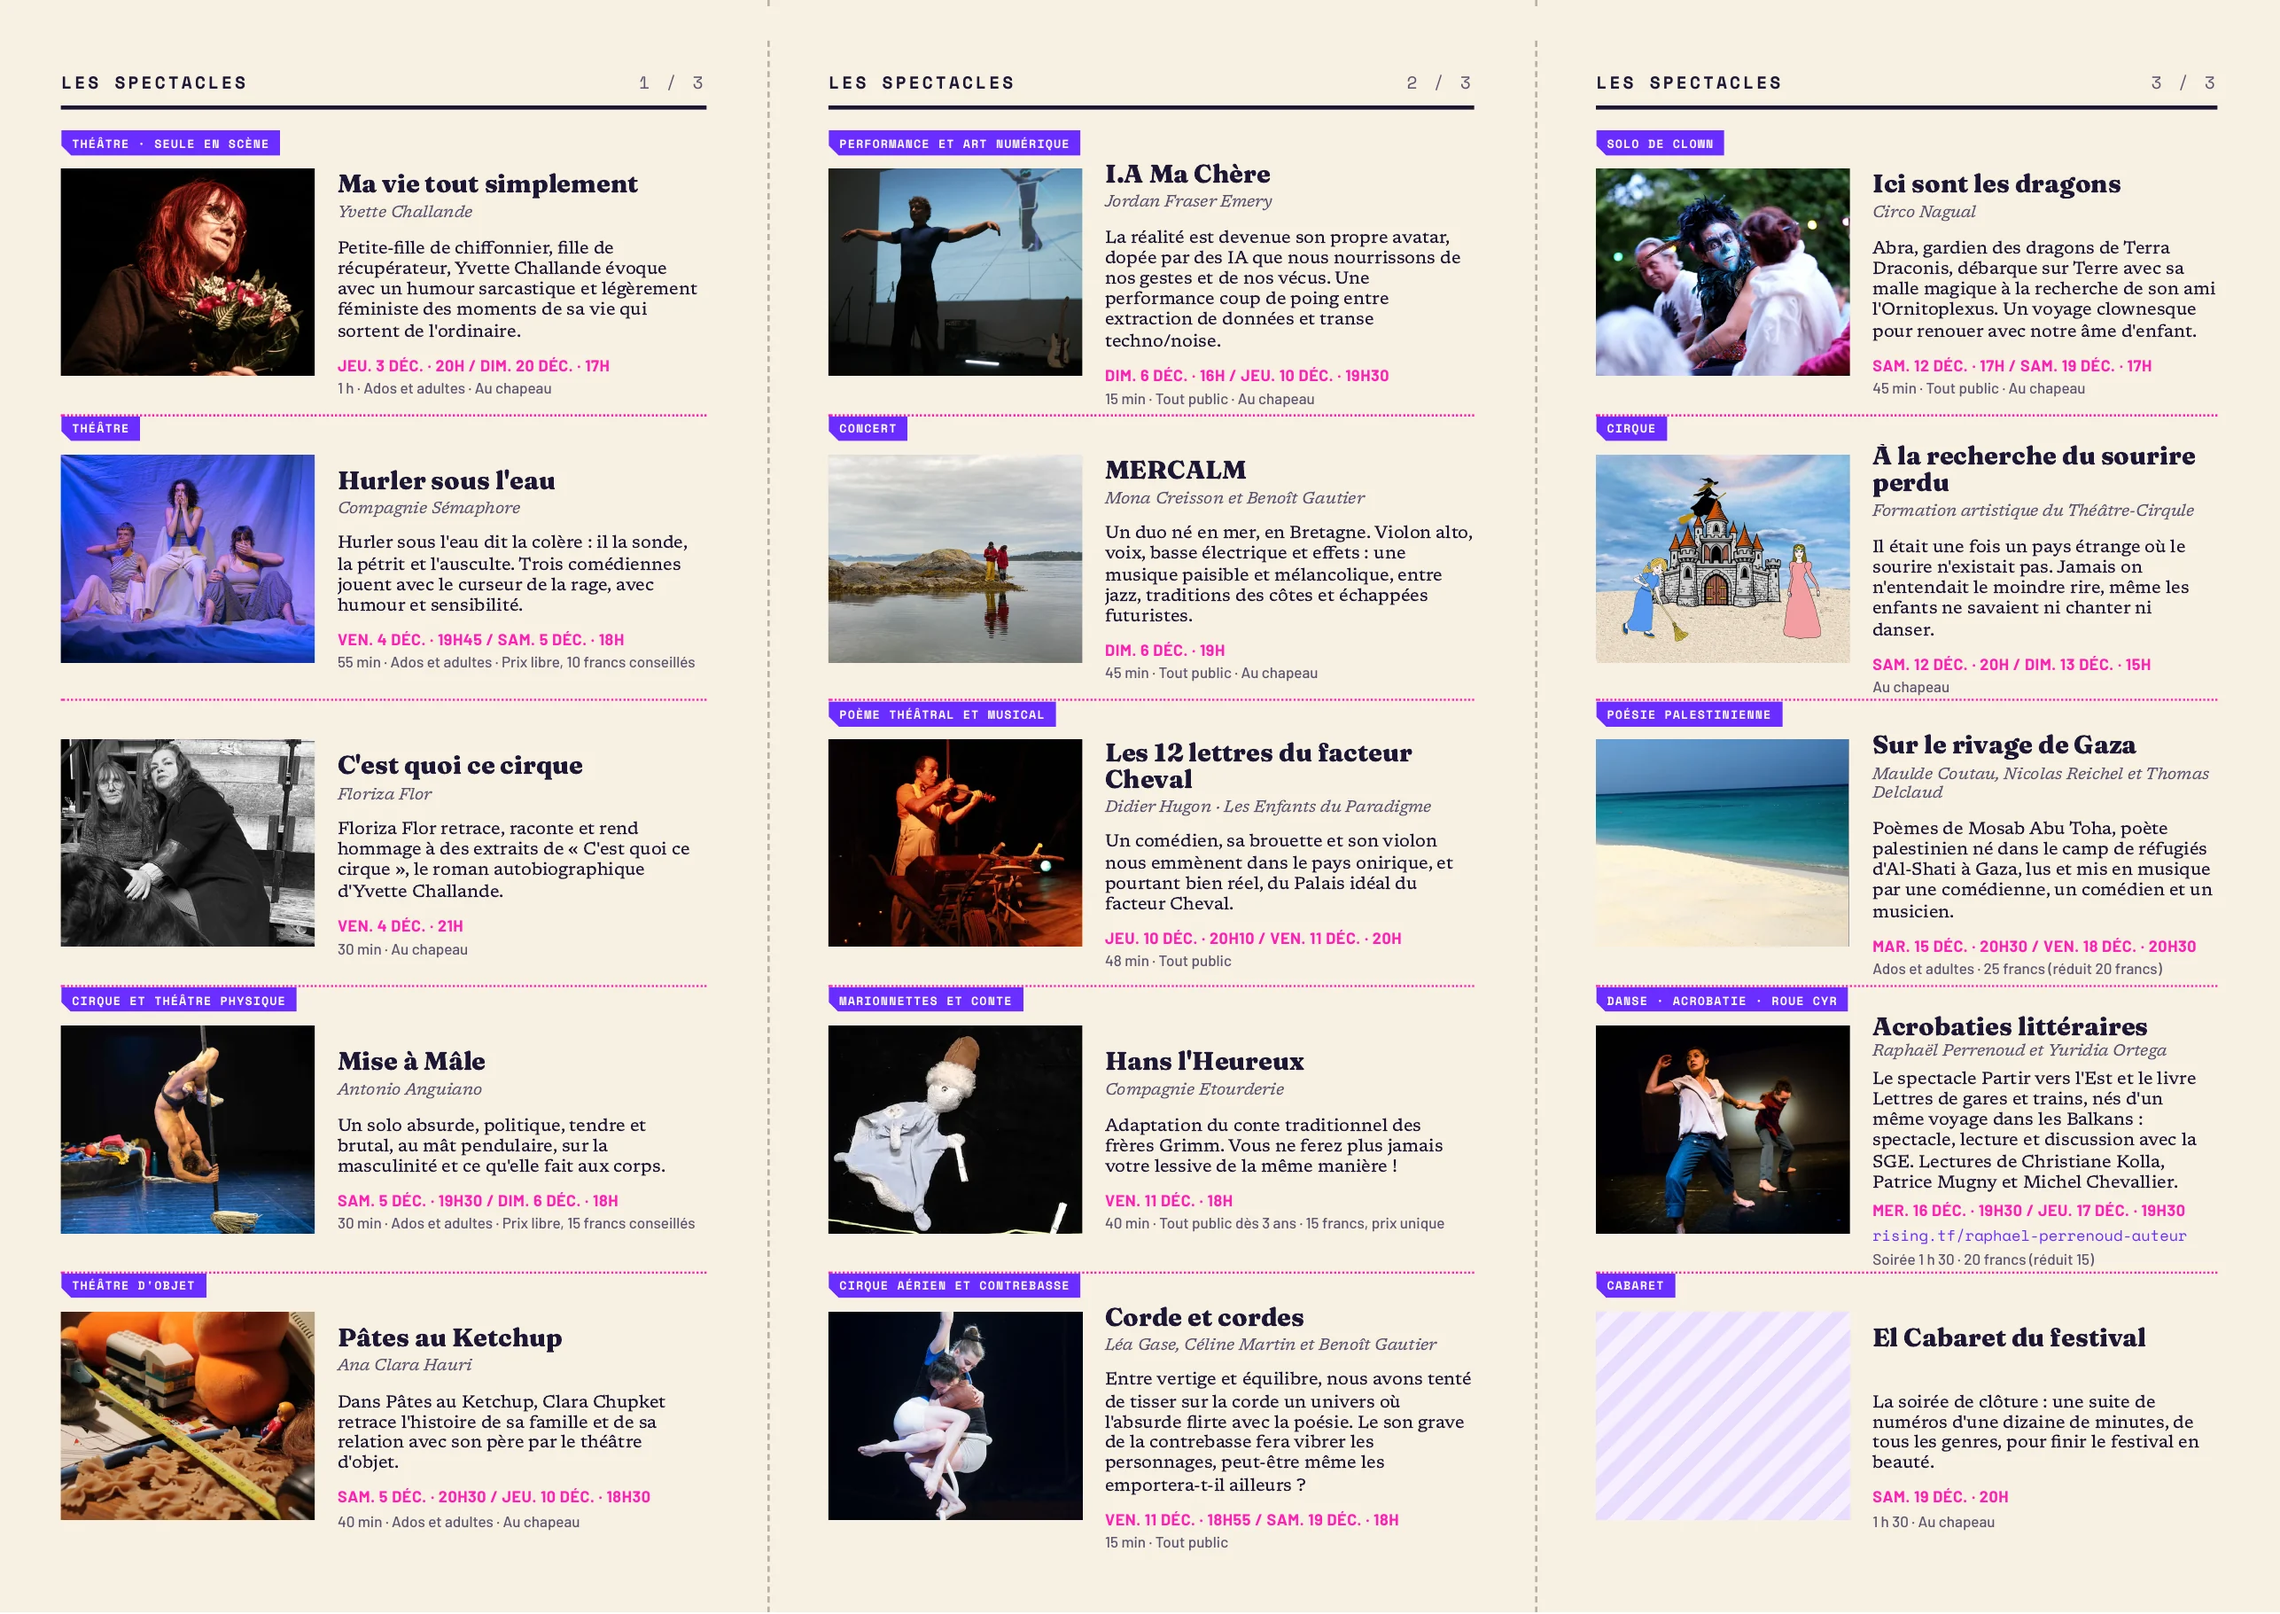
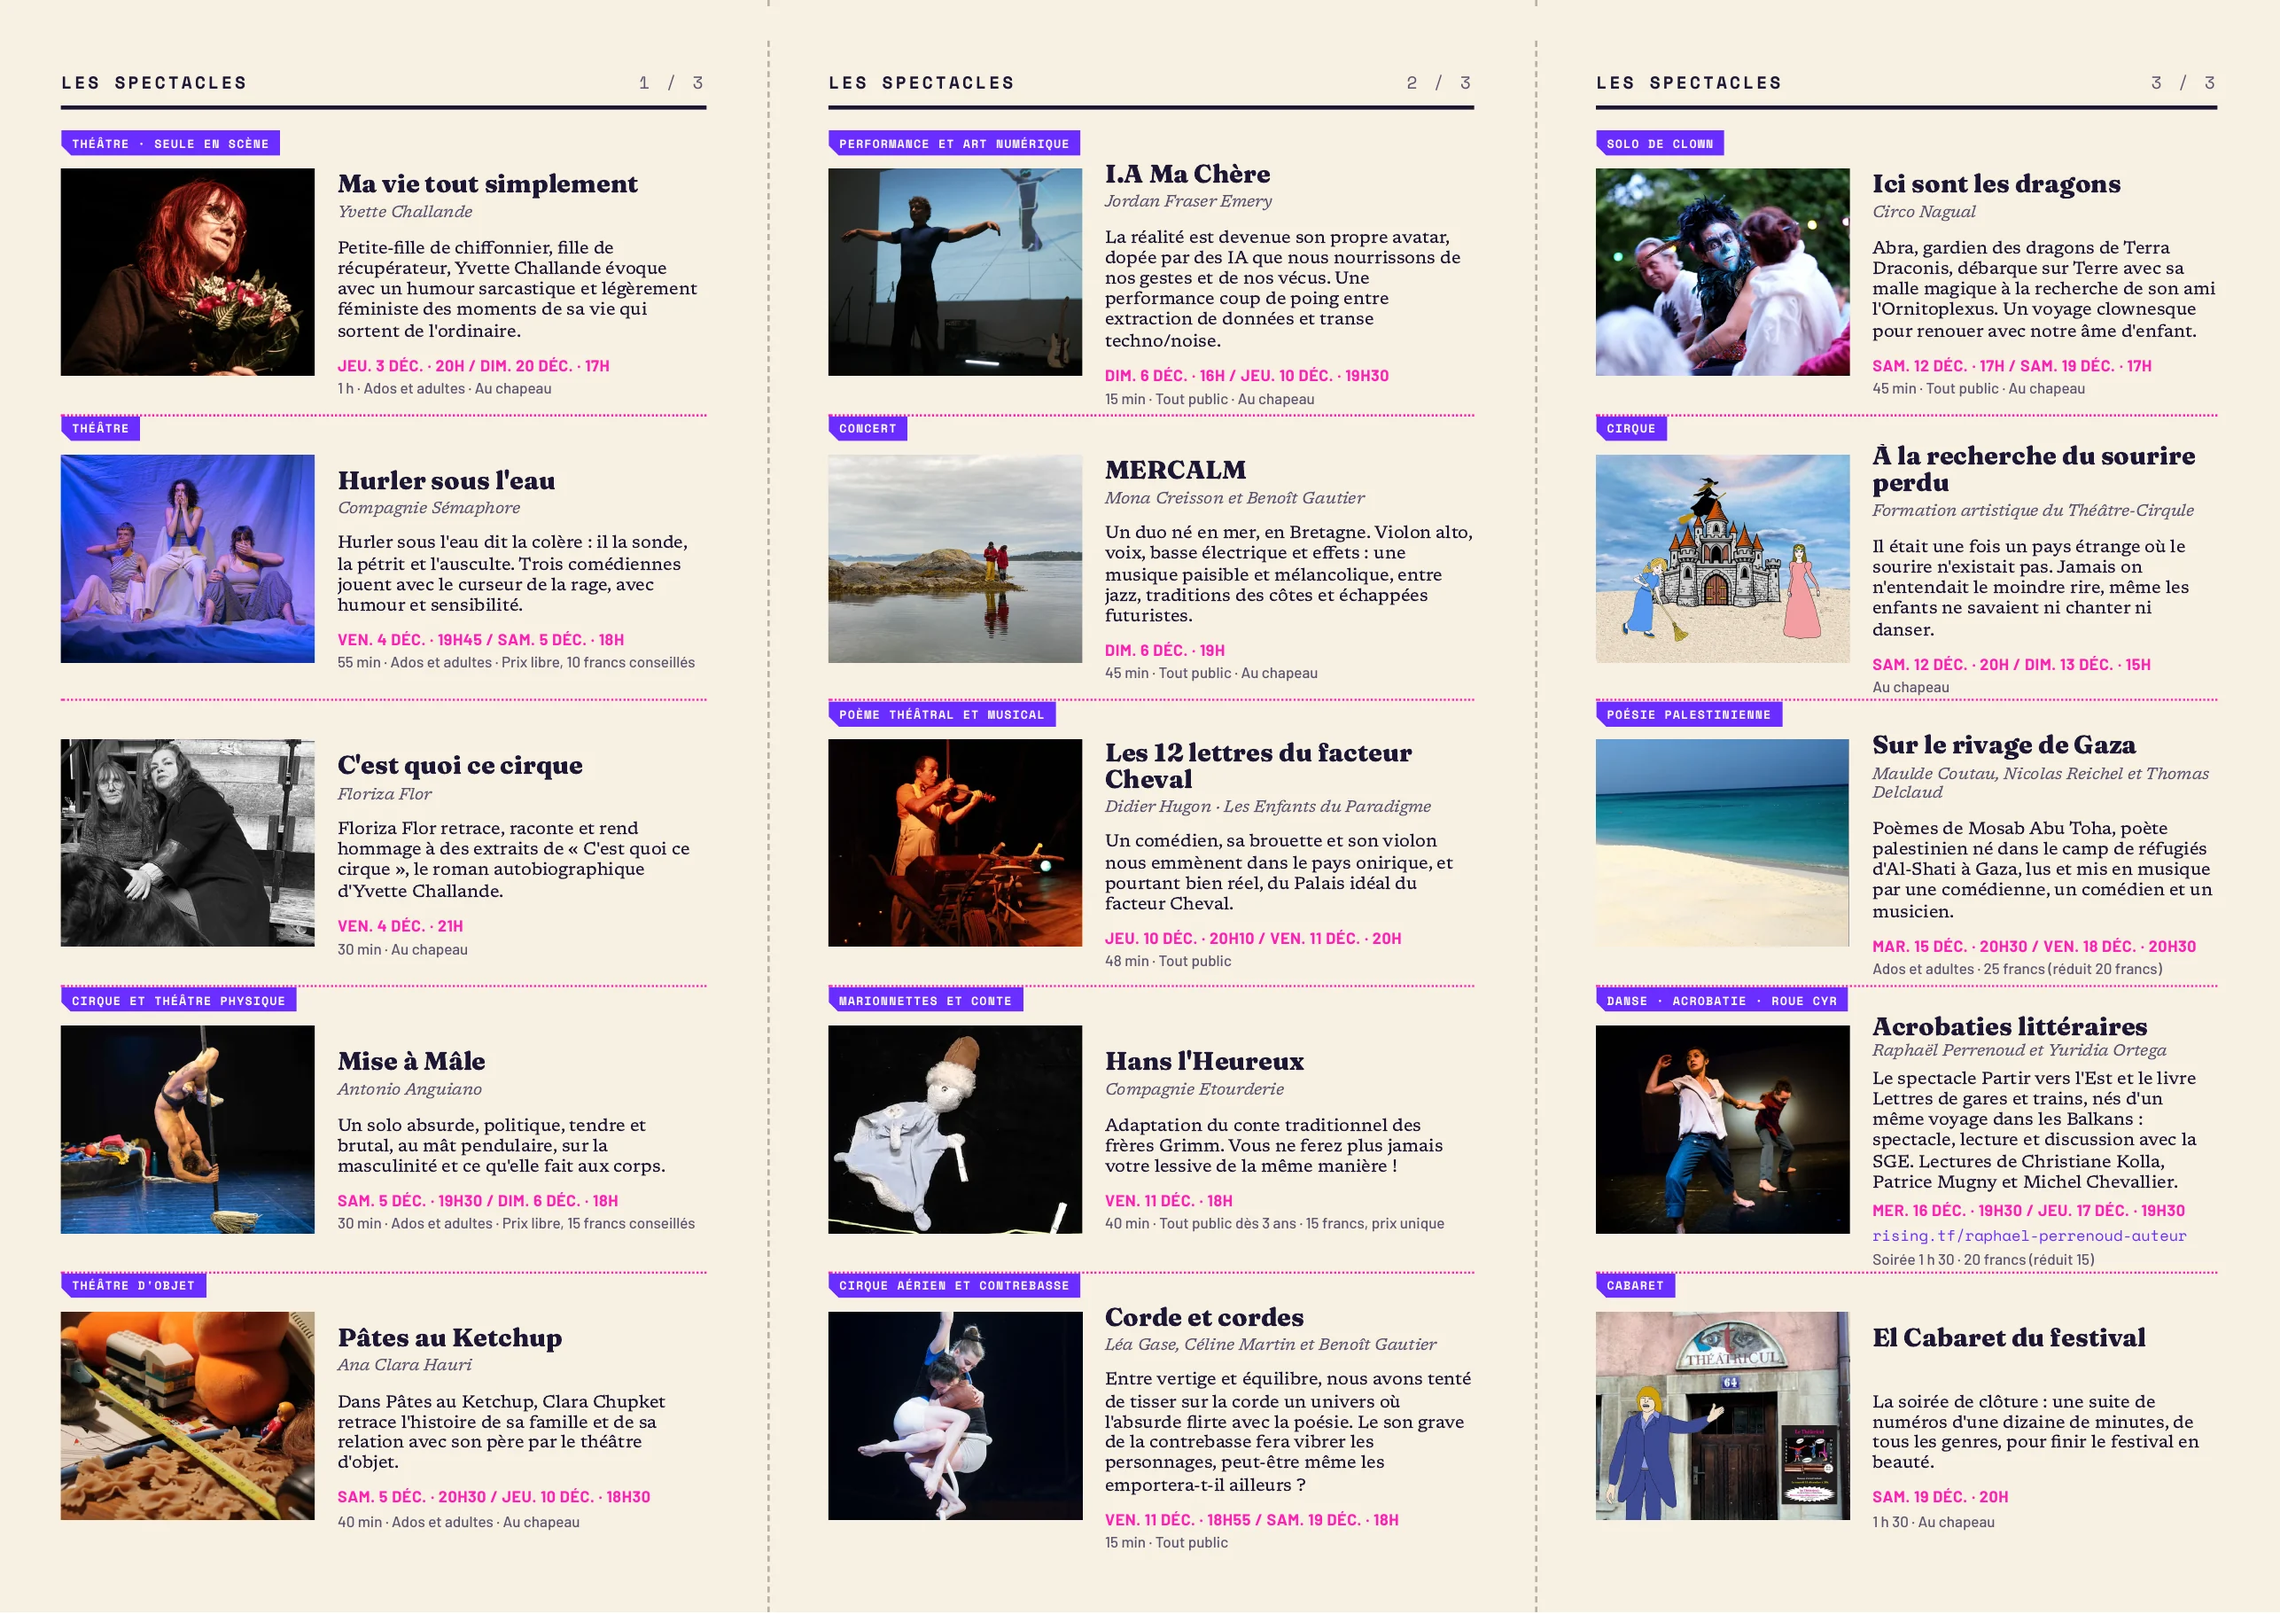
Aperçu : page du dépliant à jour (visuel du cabaret)
Claude-Session: https://claude.ai/code/session_01S2GuEiwwHEBNEWKLFkr5Cq

Changed region(s): [[0.684, 0.7996, 0.8084, 0.9533]]

diff --git a/apercu/depliant/index.html b/apercu/depliant/index.html
@@ -23,8 +23,8 @@ a{color:#6b2cff}
 </head>
 <body>
 <main>
-<a class="img" href="depliant-exterieur.webp?v=202611122124"><img src="depliant-exterieur.webp?v=202611122124" alt="Dépliant du P’tit Festival, extérieur : présentation, programme jour par jour, couverture" width="2573" height="1819"></a>
-<a class="img" href="depliant-interieur.webp?v=202611122124"><img src="depliant-interieur.webp?v=202611122124" alt="Dépliant du P’tit Festival, intérieur : les spectacles, avec photos, dates et tarifs" width="2573" height="1819"></a>
+<a class="img" href="depliant-exterieur.webp?v=202611122135"><img src="depliant-exterieur.webp?v=202611122135" alt="Dépliant du P’tit Festival, extérieur : présentation, programme jour par jour, couverture" width="2573" height="1819"></a>
+<a class="img" href="depliant-interieur.webp?v=202611122135"><img src="depliant-interieur.webp?v=202611122135" alt="Dépliant du P’tit Festival, intérieur : les spectacles, avec photos, dates et tarifs" width="2573" height="1819"></a>
 </main>
 </body>
 </html>
